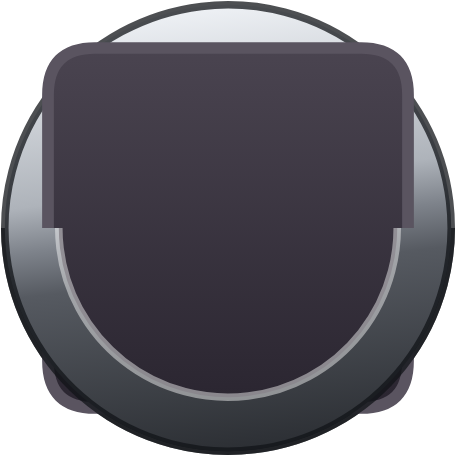
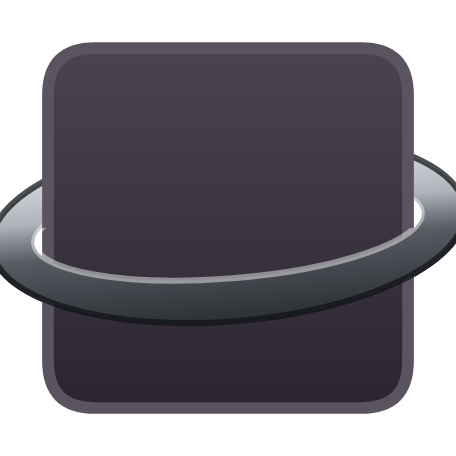
Ring idea: box ring is now a horizontal Saturn-style hoop (left-to-right)
Flatten the closed-box hoop into a wide, low ellipse crossing the box's
middle horizontally — front edge in front at the bottom, back edge behind
at the top, ends wrapping past the sides — matching the marbles' equatorial
ring instead of a vertical ring on the face. Regenerate assets.

Claude-Session: https://claude.ai/code/session_01PjGdK4EQRB6mJyeBT2zsHj

Changed region(s): [[0.0, 0.2149, 1.0, 1.0], [0.2149, 0.0, 0.7982, 0.0921]]

diff --git a/js/heavy.js b/js/heavy.js
@@ -101,7 +101,7 @@ function drawBoxHoopBand(rx, ry, band, tilt) {
 // origin at box centre.
 function drawHeavyClosedBox(w, h, S, tick, ci, boxType) {
   var left = -w / 2, top = -h / 2, r = 6 * S;
-  var rx = w * 0.62, ry = h * 0.62, band = Math.max(3 * S, h * 0.15), tilt = -0.12;
+  var rx = w * 0.66, ry = h * 0.26, band = Math.max(3 * S, h * 0.12), tilt = -0.08;
 
   // 1) Whole ring first — this is the BACK of the hoop; the box will
   //    cover the part that sits behind it.
